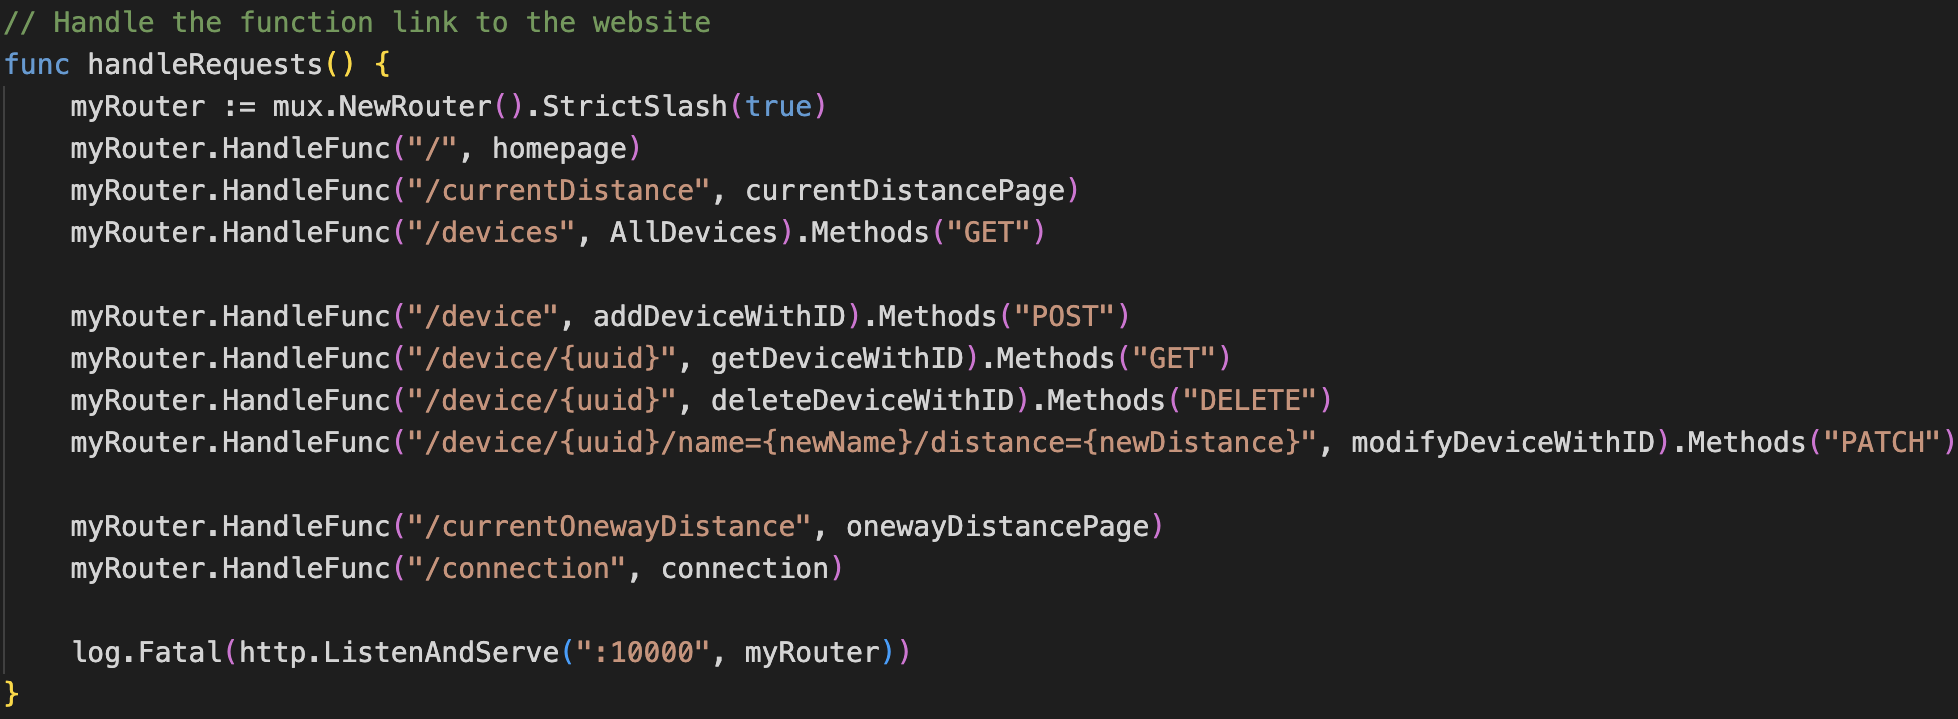
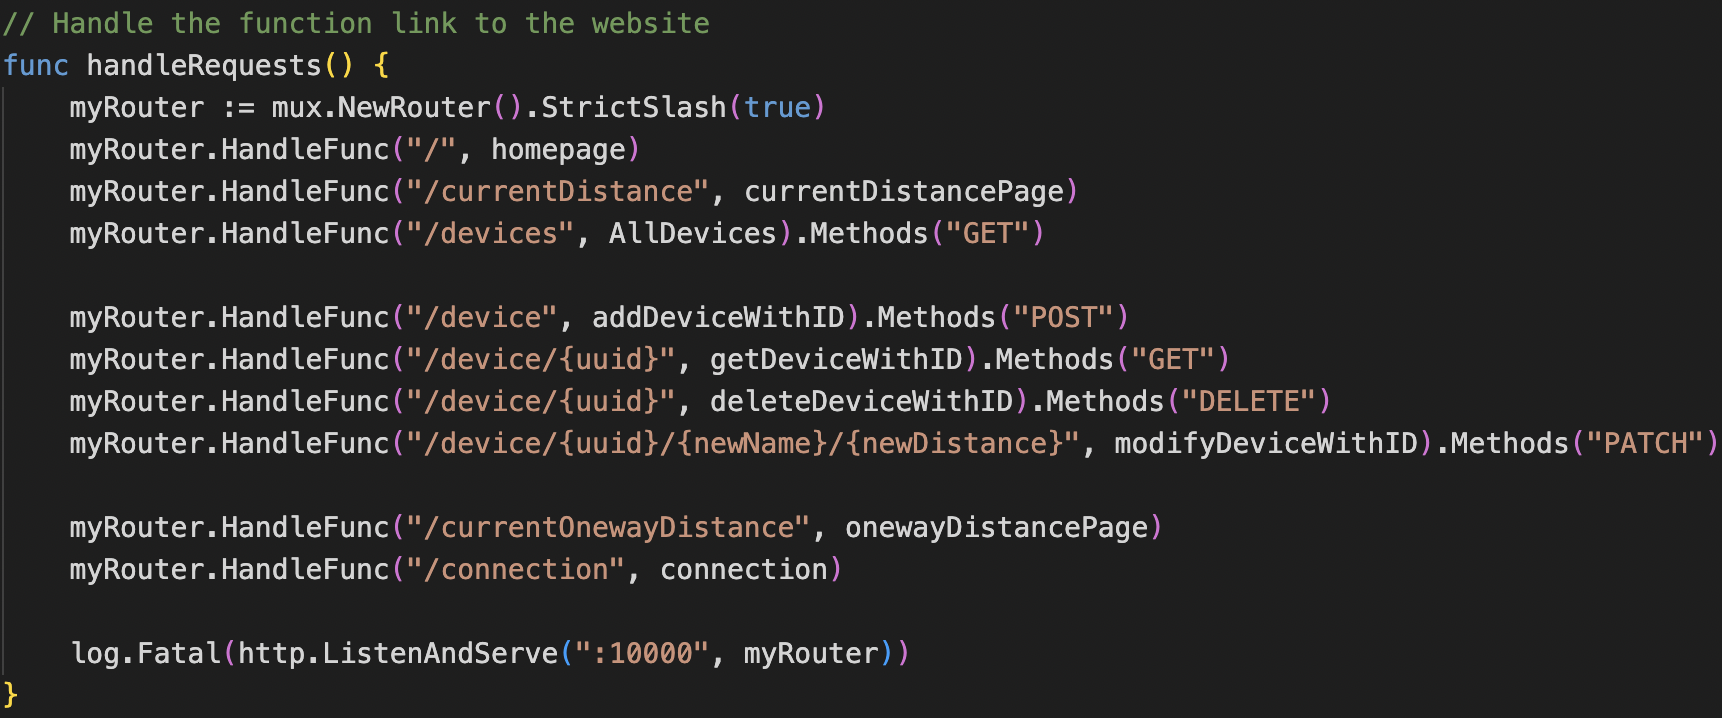
New feature PATCH and API docs update

diff --git a/docs/api_docs.html b/docs/api_docs.html
@@ -113,7 +113,7 @@
         <br><hr><br>
         <div class="handleRequests">
             <h1>handleRequests && postman test</h1>
-            <!-- <p><img src="./photo/handle.png" width="50%" height="300px"></p> -->
+            <p><img src="./photo/handle.png" width="50%" height="300px"></p>
             <h2>Features:</h2>
             <ul><p>
                 onewayDistancePage -> /currentOnewayDistance: GET<br>
@@ -138,7 +138,7 @@
             <br>
             <p>
                 <h2>AllDevices</h2>
-                func AllDevices(w http.ResponseWriter, r *http.Request) {}
+                func AllDevices(w http.ResponseWriter, r *http.Request) {}<br>
                 <!-- <p><img src="./photo/func8.png" width="20%" height="100px"></p> -->
                 /* The function(AllDevices) can use to check the info of all devices. Also can use with DELETE and POST. 
                 Will see the different after we delete a device or add a new device. */
@@ -149,7 +149,7 @@
             <br>
             <p>
                 <h2>getDeviceWithID</h2>
-                func getDeviceWithID(w http.ResponseWriter, r *http.Request) {}
+                func getDeviceWithID(w http.ResponseWriter, r *http.Request) {}<br>
                 <!-- <p><img src="./photo/func9.png" width="30%" height="300px"></p> -->
                 /* Search only one device info in the database, search by the ID of the corresponding device. */
                 <h3>API show [GET]</h3>
@@ -159,7 +159,7 @@
             <br>
             <p>
                 <h2>addDeviceWithID</h2>
-                func addDeviceWithID(w http.ResponseWriter, r *http.Request) {}
+                func addDeviceWithID(w http.ResponseWriter, r *http.Request) {}<br>
                 <!-- <p><img src="./photo/func10.png" width="30%" height="300px"></p> -->
                 /* Add a new device information. Can type new id, new name, new distance. */
                 <h3>API show [POST]</h3>
@@ -174,7 +174,7 @@
             <br>
             <p>
                 <h2>deleteDeviceWithID</h2>
-                func deleteDeviceWithID(w http.ResponseWriter, r *http.Request) {}
+                func deleteDeviceWithID(w http.ResponseWriter, r *http.Request) {}<br>
                 <!-- <p><img src="./photo/func11.png" width="30%" height="300px"></p> -->
                 /* Search the id first, if find the id successfully, then delete from the device container. */
                 <h3>API show [POST]</h3>
@@ -185,6 +185,28 @@
                 <p><img src="./photo/post11.png" width="40%" height="300px"></p>
                 Finally, click the GET function http://localhost:10000/devices again, we will see the change.<br>
                 <p><img src="./photo/post8.png" width="40%" height="300px"></p>
+            </p>
+            <p>
+                <h2>modifyDeviceWithID</h2>
+                func modifyDeviceWithID(w http.ResponseWriter, r *http.Request) {}<br>
+                /** Search the id first, then enter the new name or new distance to set.<br>
+                * If find the id successfully, then update the information for the corresponding device.<br>
+                * <br>
+                * RETURN<br>
+                * 200 OK<br>
+                * <br>
+                * ERROR<br>
+                * If new name is empty -> 404 not found<br>
+                * If new distance is empty -> 404 not found<br>
+                * If the id is incorrect -> No device found, 404 not found<br>
+                */
+                <h3>API show [PATCH]</h3>
+                Using the GET function http://localhost:10000/devices, get all devices information first.<br>
+                <p><img src="./photo/modify1.png" width="40%" height="300px"></p>
+                Then using the PATCH command in postman, and type: http://localhost:10000/device/xxxxxxxxxxxxxxxxxxxxxxxxxxxxxxxxxxxx(the id)/newName/newDistance -> click the send button.<br>
+                <p><img src="./photo/modify2.png" width="40%" height="300px"></p>
+                Finally, click the GET function http://localhost:10000/devices again, we will see information change successfully.<br>
+                <p><img src="./photo/modify3.png" width="40%" height="300px"></p>
             </p>
         </div>
     </body>

diff --git a/docs/getin.html b/docs/getin.html
@@ -55,13 +55,14 @@
                 ## Project Goal<br>
                 TT is an open-source tracking network that provides IoT devices with their relative location, eliminating the need for high
                 power consumption or satellite signals. The project is divided into three distinct phases.
+                <br><br>
                 In phase one, which occurs prior to the competition, our main objective is to implement the distance measurement
                 functionality between IoT devices through our code.
-                <br>
+                <br><br>
                 Following the competition, but before the conclusion of the summer semester, phase two will involve the development of
                 an API that enables other applications to utilize our project. For instance, we will try our best to create an open-source
                 version of AirTag for short-distance tracking or a smart light controller.
-                <br>
+                <br><br>
                 Phase three will commence after the summer semester, during which we intend to dedicate significant effort to the project.
                 We firmly believe in the usefulness and significance of this endeavor, anticipating a positive feedback loop of continuous
                 improvement as individuals from the community come forward to contribute and enhance the project.

diff --git a/src/main.go b/src/main.go
@@ -9,6 +9,8 @@ import (
 	"net/http"
 	"time"
 
+	"strconv"
+
 	"github.com/google/uuid"
 	"github.com/gorilla/mux"
 )
@@ -187,28 +189,31 @@ func addDeviceWithID(w http.ResponseWriter, r *http.Request) {
 // The function "PATCH"
 func modifyDeviceWithID(w http.ResponseWriter, r *http.Request) {
 	fmt.Println("Endpoint Hit: modifyDeviceWithID")
-	requestBody, _ := ioutil.ReadAll(r.Body)
-	var newDevice Device
-	json.Unmarshal(requestBody, &newDevice)
-	for _, device := range devices {
-		if device.ID == newDevice.ID {
-			if device.Name == "" {
-				fmt.Fprintf(w, " New name cannot be empty, plase re-enter a new one\n")
-			} else if device.Name == newDevice.Name {
-				fmt.Fprintf(w, " New name cannot be the same as before\n")
-			} else {
-				fmt.Fprintf(w, " Device name update successfully\n")
-			}
-			if device.Distance_m == newDevice.Distance_m {
-				fmt.Fprintf(w, " New distance cannot be the same as before\n")
-			} else {
-				fmt.Fprintf(w, " Device distance update successfully\n")
-			}
+	vars := mux.Vars(r)
+	uuidStr := vars["uuid"]
+	nameStr := vars["newName"]
+	// new name cannot be empty
+	if nameStr == " " {
+		fmt.Fprintf(w, "404 not found")
+		return
+	}
+	// new distance cannot be empty
+	setDistance := vars["newDistance"]
+	if setDistance == " " {
+		fmt.Fprintf(w, "404 not found")
+		return
+	}
+	UUID, _ := uuid.Parse(uuidStr)
+	for index, device := range devices {
+		if device.ID == UUID {
+			devices[index].Name = nameStr
+			devices[index].Distance_m, _ = strconv.ParseFloat(setDistance, 64) //switch string to float64
+			fmt.Fprintf(w, "device found with UUID: "+uuidStr+" information updated.\n")
+			fmt.Fprintf(w, "200 OK")
 			return
 		}
 	}
-	devices = append(devices, newDevice)
-	fmt.Fprintf(w, " Device ID: %s, info changed", newDevice.ID)
+	fmt.Fprintf(w, "No device found, 404 not found")
 }
 
 // access the homepage
@@ -229,7 +234,7 @@ func handleRequests() {
 	myRouter.HandleFunc("/device", addDeviceWithID).Methods("POST")
 	myRouter.HandleFunc("/device/{uuid}", getDeviceWithID).Methods("GET")
 	myRouter.HandleFunc("/device/{uuid}", deleteDeviceWithID).Methods("DELETE")
-	myRouter.HandleFunc("/device/{uuid}/name={newName}/distance={newDistance}", modifyDeviceWithID).Methods("PATCH")
+	myRouter.HandleFunc("/device/{uuid}/{newName}/{newDistance}", modifyDeviceWithID).Methods("PATCH")
 
 	myRouter.HandleFunc("/currentOnewayDistance", onewayDistancePage)
 	myRouter.HandleFunc("/connection", connection)
